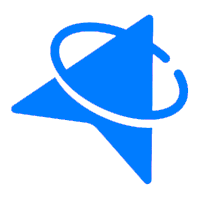
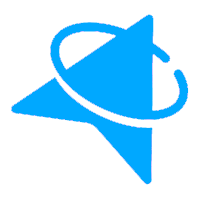
More updates

Changed region(s): [[0.06, 0.06, 0.96, 0.93]]

diff --git a/modules/yup_dsp_jit/tools/vscode-ydsp/README.md b/modules/yup_dsp_jit/tools/vscode-ydsp/README.md
@@ -133,7 +133,10 @@ set of real patches to test highlighting against lives in
 ```
 vscode-ydsp/
 ├── package.json                      # extension manifest
-├── language-configuration.json       # comments, brackets, folding, indentation
+├── language-configuration.json       # YDSP comments, brackets, folding, indentation
+├── language-configuration-project.json # the same for `.ydsp-project` (`#` comments, off-side folding)
+├── images/ydsp-icon.png              # file icon for `.ydsp` patches
+├── images/ydsp-project-icon.png      # file icon for `.ydsp-project` manifests
 ├── images/ydsp-activity.svg          # Activity Bar container icon
 ├── src/extension.ts                  # activation: language server, commands, panel wiring
 ├── src/panel.ts                      # Patch Player sidebar webview
@@ -141,6 +144,7 @@ vscode-ydsp/
 ├── src/devices.ts                    # audio/MIDI device enumeration
 ├── src/player.ts                     # `run` subprocess and its lifecycle
 ├── syntaxes/ydsp.tmLanguage.json     # TextMate grammar (source.ydsp)
+├── syntaxes/ydsp-project.tmLanguage.json # manifest grammar including source.yaml
 └── snippets/ydsp.code-snippets       # code snippets
 ```
 

diff --git a/docs/dsp/ydsp-command-line.md b/docs/dsp/ydsp-command-line.md
@@ -114,7 +114,8 @@ not stored in the portable project manifest.
 ## Editor diagnostics
 
 `yup_dsp_compiler --lsp` reserves stdout for LSP messages. The VS Code extension
-watches `.ydsp` and `.ydsp-project` files. Project manifests open as YAML.
+watches `.ydsp` and `.ydsp-project` files. Project manifests carry the YDSP icon
+and are highlighted as YAML.
 Diagnostics support unsaved source and manifest contents, explicit imports,
 UTF-16 editor positions, and clearing errors after a fix or document closure.
 Errors in imports are published against their own file URI.

diff --git a/modules/yup_dsp_jit/tools/vscode-ydsp/CHANGELOG.md b/modules/yup_dsp_jit/tools/vscode-ydsp/CHANGELOG.md
@@ -36,6 +36,10 @@ The format is based on [Keep a Changelog](https://keepachangelog.com/en/1.1.0/).
   and `ydsp.player.blockSize` settings.
 - Unsaved patch files are reported in the panel, since playback compiles from
   disk.
+- `.ydsp-project` manifests use their own language id (`ydsp-project`) with a
+  dedicated icon (`images/ydsp-project-icon.png`), instead of the YAML icon;
+  YAML highlighting is kept through a grammar that includes `source.yaml`, and
+  `#` is the comment token.
 
 - Offline YDSP bundle tooling is now documented alongside the extension.
 
